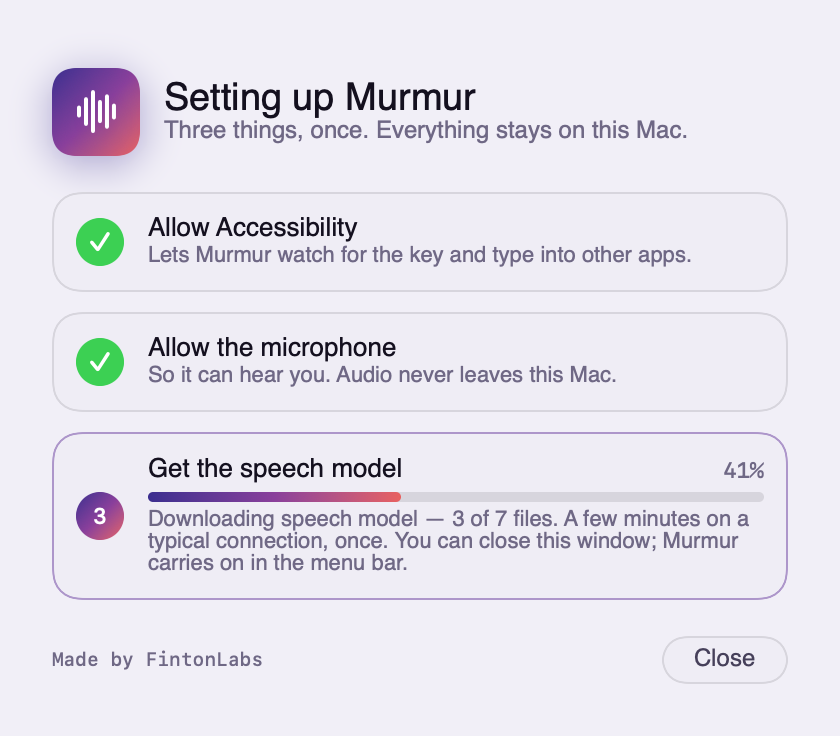
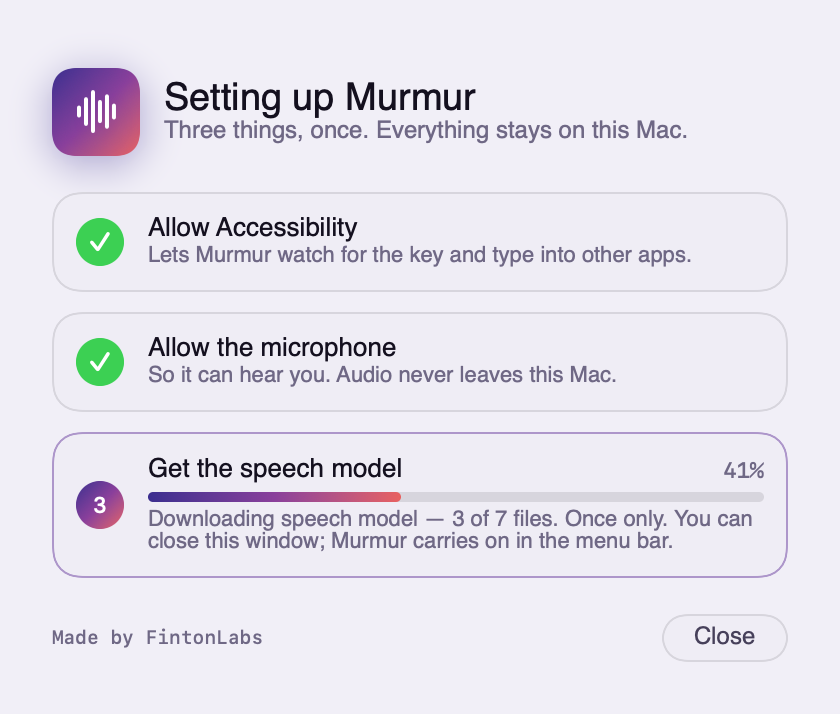
Fetch the speech model as one zip from GitHub, falling back to Hugging Face
First launch was dozens of small requests to Hugging Face for about 450MB
of CoreML files, slow enough that a user on a new M4 gave up. The model is
now also published as a single prerelease asset on this repo — the
unmodified FluidInference conversion of Parakeet TDT 0.6B v2, CC BY 4.0,
SHA-256 pinned in code — and ModelMirror seeds FluidAudio's cache from it
before FluidAudio is asked, so FluidAudio finds the files and skips its own
download. Any mirror failure is logged and the original path runs as before.
A prerelease never becomes latest, so the update check and the landing page
are unaffected.

Downloader is delegate-based: iterating an AsyncBytes stream byte by byte
is CPU-bound and took minutes for the update installer's 11MB, let alone
this. The docs said 2.3GB; that is the whole Hugging Face repo, and the app
only ever fetched 450MB of it. Corrected everywhere.

Verified by emptying the cache and running selftest: mirror fetched,
verified, unpacked, model loaded, transcription correct.

diff --git a/Sources/Murmur/ASR/ModelMirror.swift b/Sources/Murmur/ASR/ModelMirror.swift
@@ -1,0 +1,89 @@
+import CryptoKit
+import FluidAudio
+import Foundation
+
+/// Seeds FluidAudio's model cache from a single zip on GitHub, so first launch
+/// is one download rather than dozens of small files from Hugging Face. The
+/// archive is the unmodified FluidInference CoreML conversion of Parakeet TDT
+/// 0.6B v2 (CC BY 4.0), published as a prerelease asset so it never becomes
+/// the app's "latest" release. Any failure falls back to FluidAudio's own
+/// download, so the mirror can only ever make things faster, not break them.
+enum ModelMirror {
+
+    static let archiveURL = URL(string:
+        "https://github.com/justynroberts/murmur/releases/download/models-parakeet-v2/parakeet-tdt-0.6b-v2-coreml.zip")!
+    /// SHA-256 of the published archive. Changing the asset means changing this.
[1 lines of base64/hex data omitted]
+    static let version: AsrModelVersion = .v2
+
+    /// Where FluidAudio expects the files. Mirrors its default: it loads from
+    /// here without downloading if the required files are present.
+    static var cacheDirectory: URL {
+        FileManager.default.urls(for: .applicationSupportDirectory, in: .userDomainMask)[0]
+            .appendingPathComponent("FluidAudio/Models/parakeet-tdt-0.6b-v2", isDirectory: true)
+    }
+
+    static var isCached: Bool {
+        AsrModels.modelsExist(at: cacheDirectory, version: version)
+    }
+
+    enum MirrorError: LocalizedError {
+        case checksum, unpack
+        var errorDescription: String? {
+            switch self {
+            case .checksum: return "The mirrored model did not match its checksum."
+            case .unpack:   return "The mirrored model could not be unpacked."
+            }
+        }
+    }
+
+    /// Downloads, verifies and unpacks into the cache. Throws on any problem;
+    /// the caller falls back to FluidAudio. `onProgress` gets a phrase and a
+    /// 0…1 fraction.
+    static func seed(onProgress: @escaping @Sendable (String, Double?) -> Void) async throws {
+        let tmp = FileManager.default.temporaryDirectory
+            .appendingPathComponent("murmur-model-\(Int(Date().timeIntervalSince1970))", isDirectory: true)
+        try FileManager.default.createDirectory(at: tmp, withIntermediateDirectories: true)
+        defer { try? FileManager.default.removeItem(at: tmp) }
+        let zip = tmp.appendingPathComponent("model.zip")
+
+        onProgress("Downloading speech model", nil)
+        try await Downloader.fetch(archiveURL, to: zip) { written, total in
+            let mb = Int(written / 1_048_576)
+            if let total {
+                onProgress("Downloading speech model — \(mb) of \(Int(total / 1_048_576)) MB",
+                           Double(written) / Double(total) * 0.9)
+            } else {
+                onProgress("Downloading speech model — \(mb) MB", nil)
+            }
+        }
+
+        onProgress("Checking the download", 0.92)
+        guard try sha256(of: zip) == archiveSHA256 else { throw MirrorError.checksum }
+
+        onProgress("Unpacking speech model", 0.95)
+        let parent = cacheDirectory.deletingLastPathComponent()
+        try FileManager.default.createDirectory(at: parent, withIntermediateDirectories: true)
+        try? FileManager.default.removeItem(at: cacheDirectory)
+        let ditto = Process()
+        ditto.executableURL = URL(fileURLWithPath: "/usr/bin/ditto")
+        ditto.arguments = ["-x", "-k", zip.path, parent.path]
+        ditto.standardOutput = Pipe(); ditto.standardError = Pipe()
+        try ditto.run()
+        ditto.waitUntilExit()
+        guard ditto.terminationStatus == 0, isCached else {
+            try? FileManager.default.removeItem(at: cacheDirectory)
+            throw MirrorError.unpack
+        }
+    }
+
+    static func sha256(of url: URL) throws -> String {
+        let handle = try FileHandle(forReadingFrom: url)
+        defer { try? handle.close() }
+        var hasher = SHA256()
+        while let chunk = try handle.read(upToCount: 4 << 20), !chunk.isEmpty {
+            hasher.update(data: chunk)
+        }
+        return hasher.finalize().map { String(format: "%02x", $0) }.joined()
+    }
+}

diff --git a/Sources/Murmur/Update/Downloader.swift b/Sources/Murmur/Update/Downloader.swift
@@ -1,0 +1,72 @@
+import Foundation
+
+/// One file, to disk, with progress. Delegate-based so the bytes go straight
+/// to a file on a background thread; iterating an AsyncBytes stream byte by
+/// byte is CPU-bound and takes minutes for a few hundred megabytes.
+final class Downloader: NSObject, URLSessionDownloadDelegate, @unchecked Sendable {
+
+    enum DownloadError: LocalizedError {
+        case http(Int), moveFailed, cancelled
+        var errorDescription: String? {
+            switch self {
+            case .http(let code): return "The server answered \(code)."
+            case .moveFailed:     return "The downloaded file could not be saved."
+            case .cancelled:      return "The download was cancelled."
+            }
+        }
+    }
+
+    private let destination: URL
+    private let onProgress: @Sendable (Int64, Int64?) -> Void
+    private var continuation: CheckedContinuation<Void, Error>?
+    private lazy var session: URLSession = {
+        let config = URLSessionConfiguration.ephemeral
+        config.urlCache = nil
+        config.httpCookieStorage = nil
+        config.timeoutIntervalForRequest = 30
+        config.timeoutIntervalForResource = 60 * 60
+        return URLSession(configuration: config, delegate: self, delegateQueue: nil)
+    }()
+
+    private init(destination: URL, onProgress: @escaping @Sendable (Int64, Int64?) -> Void) {
+        self.destination = destination
+        self.onProgress = onProgress
+    }
+
+    /// Downloads `url` to `destination`, replacing anything there.
+    static func fetch(_ url: URL, to destination: URL,
+                      onProgress: @escaping @Sendable (_ written: Int64, _ total: Int64?) -> Void) async throws {
+        let d = Downloader(destination: destination, onProgress: onProgress)
+        try await withCheckedThrowingContinuation { (c: CheckedContinuation<Void, Error>) in
+            d.continuation = c
+            var request = URLRequest(url: url)
+            request.setValue("application/octet-stream", forHTTPHeaderField: "Accept")
+            d.session.downloadTask(with: request).resume()
+        }
+        d.session.invalidateAndCancel()
+    }
+
+    func urlSession(_ session: URLSession, downloadTask: URLSessionDownloadTask,
+                    didWriteData bytesWritten: Int64, totalBytesWritten: Int64, totalBytesExpectedToWrite: Int64) {
+        onProgress(totalBytesWritten, totalBytesExpectedToWrite > 0 ? totalBytesExpectedToWrite : nil)
+    }
+
+    func urlSession(_ session: URLSession, downloadTask: URLSessionDownloadTask, didFinishDownloadingTo location: URL) {
+        if let http = downloadTask.response as? HTTPURLResponse, http.statusCode != 200 {
+            continuation?.resume(throwing: DownloadError.http(http.statusCode)); continuation = nil; return
+        }
+        do {
+            try? FileManager.default.removeItem(at: destination)
+            try FileManager.default.moveItem(at: location, to: destination)
+            continuation?.resume(); continuation = nil
+        } catch {
+            continuation?.resume(throwing: DownloadError.moveFailed); continuation = nil
+        }
+    }
+
+    func urlSession(_ session: URLSession, task: URLSessionTask, didCompleteWithError error: Error?) {
+        if let error {
+            continuation?.resume(throwing: error); continuation = nil
+        }
+    }
+}

diff --git a/Sources/Murmur/UI/SetupWindow.swift b/Sources/Murmur/UI/SetupWindow.swift
@@ -5,7 +5,7 @@ import SwiftUI
 /// First-run setup in a real window, not the menu bar popover. A popover
 /// hangs off the status item, and on a notched MacBook with a full menu bar
 /// the item may have no window at all — the user then sees nothing while
-/// permissions are refused and a 2.3GB download runs. This shows on launch
+/// permissions are refused and a 450MB download runs. This shows on launch
 /// until setup has completed once, and never again unless a permission is
 /// lost.
 @MainActor
@@ -185,10 +185,10 @@ struct SetupView: View {
     private func modelRow(_ step: Step) -> some View {
         let (detail, fraction): (String, Double?) = {
             if case .settingUp(let d, let f) = state.phase {
-                return (d + ". A few minutes on a typical connection, once. You can close this window; Murmur carries on in the menu bar.", f)
+                return (d + ". Once only. You can close this window; Murmur carries on in the menu bar.", f)
             }
             return step == .done ? ("Ready. Transcription is instant from now on.", nil)
-                                 : ("About 2.3GB, downloaded once — a few minutes on a typical connection — then compiled for the Neural Engine, under a minute.", nil)
+                                 : ("About 450MB, downloaded once, then compiled for the Neural Engine — under a minute.", nil)
         }()
         return HStack(alignment: .center, spacing: 12) {
             badge(step, number: 3)

diff --git a/Sources/Murmur/ASR/Transcriber.swift b/Sources/Murmur/ASR/Transcriber.swift
@@ -18,11 +18,24 @@ actor Transcriber {
     ) async throws {
         ModelHub.offlineMode = !allowingDownload
 
+        // First launch: one zip from GitHub instead of dozens of files from
+        // Hugging Face. Any failure is logged and FluidAudio downloads as before.
+        if allowingDownload, !ModelMirror.isCached {
+            do {
+                try await ModelMirror.seed(onProgress: onProgress)
+            } catch {
+                NSLog("[murmur] model mirror failed (%@); falling back to Hugging Face", error.localizedDescription)
+            }
+        }
+
         let models = try await AsrModels.downloadAndLoad(version: .v2) { progress in
             let detail: String
             switch progress.phase {
             case .downloading(let done, let total):
-                detail = "Downloading speech model — \(done) of \(total) files"
+                // After the mirror has seeded the cache there is nothing left to
+                // fetch, and FluidAudio reports 0 of 0; say what is happening.
+                detail = total == 0 ? "Preparing speech model"
+                                    : "Downloading speech model — \(done) of \(total) files"
             case .compiling(let name):
                 detail = "Compiling \(name) for the Neural Engine"
             @unknown default:

diff --git a/site/index.html b/site/index.html
@@ -560,7 +560,7 @@ footer a:hover { text-decoration: underline; }
           Accessibility is what lets it watch for the key and type into other apps.
         </li>
         <li>
-          <strong>Wait for the one-off setup.</strong> The first launch downloads the speech model (~2.3GB)
+          <strong>Wait for the one-off setup.</strong> The first launch downloads the speech model (about 450MB, one file from GitHub)
           and compiles it for the Neural Engine. The menu bar icon shows progress. After that the
           network is locked off, unless you switch on update checks.
         </li>

diff --git a/ARCHITECTURE.md b/ARCHITECTURE.md
@@ -14,6 +14,16 @@ telemetry. `Transcriber.load` sets `ModelHub.offlineMode = true` after models lo
 any later network attempt through FluidAudio throws `DownloadError.networkDisabled`
 instead of silently succeeding. Keep it that way — the offline guarantee is the product.
 
+The first-launch model download itself has two sources: `ModelMirror` fetches one
+~450MB zip from a prerelease asset on this repo's GitHub releases (tag `models-parakeet-v2`,
+the unmodified FluidInference conversion, CC BY 4.0, SHA-256 pinned in code), unpacks it
+into FluidAudio's cache directory, and only then calls FluidAudio, which finds the files
+and skips its own download. Any mirror failure is logged and FluidAudio fetches from
+Hugging Face as before. The asset is a *prerelease* so `releases/latest` — which the update
+check and the landing page rely on — never points at it. The zip was made with
+`ditto -c -k --keepParent` from the cache directory; re-publishing it means updating
+`archiveSHA256`.
+
 There is exactly one other network path, and it is opt-in and off by default:
 `UpdateChecker` asks the GitHub releases API for the latest tag once a day when the
 user switches "Check for updates" on. One request, no identifier, ephemeral session,

diff --git a/README.md b/README.md
@@ -34,9 +34,9 @@ Requires macOS 14 or later on Apple Silicon.
    **Accessibility** and **Microphone** with the Open Settings buttons; Accessibility is
    what lets it watch for the key and type into other apps. It carries on by itself the
    moment each is granted.
-3. **Let it fetch the speech model.** About 2.3GB, downloaded once, a few minutes on a
-   typical connection, then under a minute to compile for the Neural Engine. The window
-   shows progress; close it if you like and the menu bar icon takes over.
+3. **Let it fetch the speech model.** About 450MB, downloaded once as a single file from
+   GitHub, then under a minute to compile for the Neural Engine. The window shows
+   progress; close it if you like and the menu bar icon takes over.
 
 <p align="center">
   <img src="docs/screenshots/setup-light-download.png" width="420" alt="The setup window during the model download">

diff --git a/docs/BENCHMARKS.md b/docs/BENCHMARKS.md
@@ -33,7 +33,7 @@ which is the class of error that erodes trust fastest.
 
 | Condition | Time |
 |---|---|
-| First run (download ~2.3GB) | 387s |
+| First run (download, ~450MB of a 2.5GB repo, many small files from Hugging Face) | 387s |
 | Warm | 0.27s |
 | Cold process, models cached | 35–42s |
 
